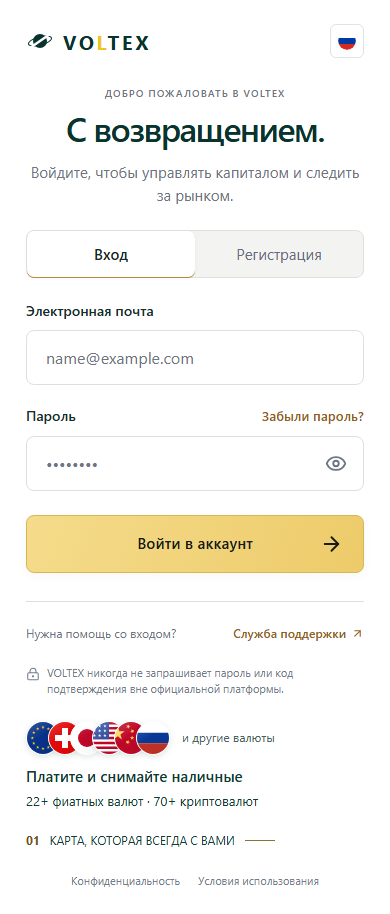
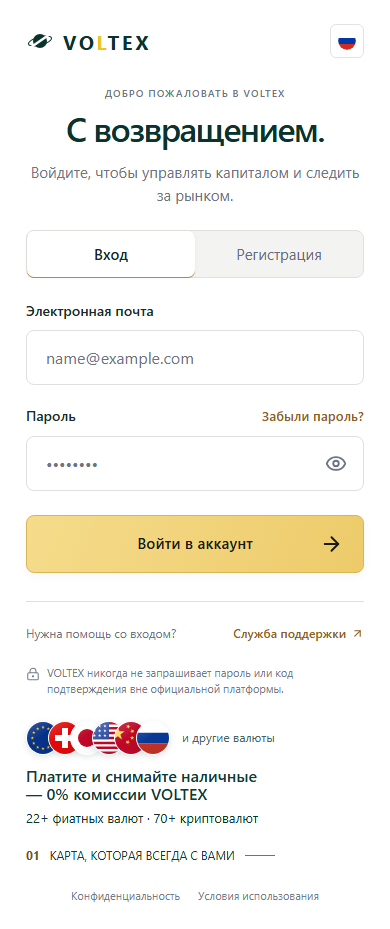
Refine auth card fee copy and lower-block readability

diff --git a/frontend/src/lib/__tests__/authBusinessClassVisual.test.ts b/frontend/src/lib/__tests__/authBusinessClassVisual.test.ts
@@ -19,7 +19,7 @@ function renderShell(lang: string) {
     './auth-shell.css': {}, './auth-form-premium.css': {},
     '../../components/Logo': { Logo: () => React.createElement('span', null, 'HTML_LOGO'), LogoMark: () => null },
     '../../components/LanguageSwitcher': { LanguageSwitcher: () => null },
-    '../../lib/i18n': { useLanguage: () => ({ lang, t: (key: string) => key === 'authShell.communitySubtitle' ? `localized:${lang}:${key}:fiat · localized:${lang}:${key}:crypto` : `localized:${lang}:${key}` }) },
+    '../../lib/i18n': { useLanguage: () => ({ lang, t: (key: string) => key === 'authShell.communitySubtitle' ? `localized:${lang}:${key}:fiat · localized:${lang}:${key}:crypto` : key === 'authShell.communityTitle' ? `localized:${lang}:${key}:action — localized:${lang}:${key}:VOLTEX:0%` : `localized:${lang}:${key}` }) },
     '../../lib/supportWidget': { openSupportWidget: jest.fn() },
     'react-router-dom': { Link: ({ to, children, ...rest }: any) => React.createElement('a', { href: to, ...rest }, children) },
   };
@@ -39,6 +39,8 @@ describe('business-class visual preserves reviewed authentication', () => {
     const preservedShell = shell
       .replace(/^import \{ EU, CH, JP, US, CN, RU \} from 'country-flag-icons\/react\/3x2';\n/m, '')
       .replace("  const [fiatCaption, cryptoCaption] = t('authShell.communitySubtitle').split(' · ');\n", '')
+      .replace("  const [cardAction, voltexFee] = t('authShell.communityTitle').split(' — ');\n", '')
+      .replace('          <strong>{cardAction}{\' \'}<span className="vx-auth-card-fee">— {voltexFee}</span></strong>', "          <strong>{t('authShell.communityTitle')}</strong>")
       .replace("          <span><span className=\"vx-auth-currency-amount\">{fiatCaption} ·</span>{' '}<span className=\"vx-auth-currency-amount\">{cryptoCaption}</span></span>", "          <span>{t('authShell.communitySubtitle')}</span>")
       .replace('/** Decorative currency examples, not the complete list or a user count. */', '/* Decorative icon-only follow-up. */')
       .replace(/        <div className="vx-auth-currency-sample">[\s\S]*?\n        <\/div>(?=\n        <div className="vx-auth-community-copy">)/, '        {/* Decorative icon group. */}');
@@ -110,6 +112,8 @@ describe('business-class visual preserves reviewed authentication', () => {
     expect(new Set(icons.slice(0, 6).map(icon => icon[2])).size).toBe(6);
     expect(html).not.toMatch(/vx-auth-avatar|community-v4/);
     expect(html).toContain(`localized:${lang}:authShell.communityTitle`);
+    expect(html.match(/class="vx-auth-card-fee"/g)).toHaveLength(2);
+    expect(html).toContain(`<strong>localized:${lang}:authShell.communityTitle:action <span class="vx-auth-card-fee">— localized:${lang}:authShell.communityTitle:VOLTEX:0%</span></strong>`);
     expect(html).toContain(`localized:${lang}:authShell.communitySubtitle`);
     expect(html.match(/class="vx-auth-currency-amount"/g)).toHaveLength(4);
     expect(html).toContain(`<span class="vx-auth-currency-amount">localized:${lang}:authShell.communitySubtitle:fiat ·</span> <span class="vx-auth-currency-amount">localized:${lang}:authShell.communitySubtitle:crypto</span>`);
@@ -138,6 +142,15 @@ describe('business-class visual preserves reviewed authentication', () => {
     expect(css).toContain('.vx-auth .vx-auth-brand-banner::after { content: none; }');
     // Actual painted coverage, protected image regions, resize/zoom and compact
     // form access are measured by qa-auth-business-class.cjs, not CSS literals.
+  });
+
+  test('fee typography is scoped, opaque and readable without a badge or smaller type', () => {
+    expect(css).toContain('.vx-auth .vx-auth-card-fee { white-space: nowrap; }');
+    expect(css).toContain('.vx-auth .vx-auth-community-copy strong { color: #123a33; font-size: 17px; font-weight: 600; line-height: 1.15; text-wrap: wrap; }');
+    expect(css).toContain('.vx-auth .vx-auth-community-copy > span { color: #0d332d; font-size: 14px; font-weight: 400; line-height: 1.4; }');
+    expect(css.match(/\.vx-auth \.vx-auth-community-copy strong \{ font-size: 16px; \}/g)).toHaveLength(2);
+    const captionCSS = css.slice(css.indexOf('.vx-auth .vx-auth-extras {'), css.indexOf('/* Light form theme'));
+    expect(captionCSS).not.toMatch(/opacity:|text-overflow:|text-shadow:|backdrop-filter:|animation:/);
   });
 
   test('premium form is native CSS, keeps warning/error/focus/disabled states and adds no images', () => {

diff --git a/frontend/src/lib/__tests__/i18nLanguageChunks.test.ts b/frontend/src/lib/__tests__/i18nLanguageChunks.test.ts
@@ -76,13 +76,13 @@ const AUTH_COMMUNITY_KEYS = ['authShell.communityTitle', 'authShell.communitySub
 describe('translation integrity', () => {
   it('localizes the exact two-line card copy and 22+/70+ fiat/crypto counts without an investor claim', () => {
     const approvedCommunityCopy: Record<string, { title: string; subtitle: string }> = {
-      ru: { title: 'Платите и снимайте наличные', subtitle: '22+ фиатных валют · 70+ криптовалют' },
-      en: { title: 'Pay and withdraw cash', subtitle: '22+ fiat currencies · 70+ cryptocurrencies' },
-      zh: { title: '支付与取现', subtitle: '22+ 种法定货币 · 70+ 种加密货币' },
-      es: { title: 'Paga y retira efectivo', subtitle: '22+ monedas fiduciarias · 70+ criptomonedas' },
-      hi: { title: 'भुगतान करें और नकद निकालें', subtitle: '22+ फ़िएट मुद्राएँ · 70+ क्रिप्टोकरेंसी' },
-      ja: { title: 'お支払いと現金の引き出し', subtitle: '22+ の法定通貨 · 70+種類の暗号資産' },
-      ko: { title: '결제하고 현금을 인출하세요', subtitle: '22+개 법정화폐 · 70+개 암호화폐' },
+      ru: { title: 'Платите и снимайте наличные — 0% комиссии VOLTEX', subtitle: '22+ фиатных валют · 70+ криптовалют' },
+      en: { title: 'Pay and withdraw cash — 0% VOLTEX fees', subtitle: '22+ fiat currencies · 70+ cryptocurrencies' },
+      zh: { title: '支付与取现 — VOLTEX 手续费 0%', subtitle: '22+ 种法定货币 · 70+ 种加密货币' },
+      es: { title: 'Paga y retira efectivo — 0% de comisión VOLTEX', subtitle: '22+ monedas fiduciarias · 70+ criptomonedas' },
+      hi: { title: 'भुगतान करें और नकद निकालें — VOLTEX शुल्क 0%', subtitle: '22+ फ़िएट मुद्राएँ · 70+ क्रिप्टोकरेंसी' },
+      ja: { title: 'お支払いと現金の引き出し — VOLTEX手数料0%', subtitle: '22+ の法定通貨 · 70+種類の暗号資産' },
+      ko: { title: '결제하고 현금을 인출하세요 — VOLTEX 수수료 0%', subtitle: '22+개 법정화폐 · 70+개 암호화폐' },
     };
     for (const code of LOCALES) {
       const sourceKeys = [...readLocale(code).matchAll(/^\s*'([^']+)':/gm)].map(match => match[1]);
@@ -92,14 +92,19 @@ describe('translation integrity', () => {
         expect(dicts[code][key]).not.toMatch(/1[.,]2|million|миллион|млн|万|백만|लाख|18\+|30\+/i);
         expect(dicts[code][key]).not.toMatch(/[.!?。！？।]$/);
       }
-      expect(dicts[code]['authShell.communityTitle']).not.toMatch(/\d/);
+      const feeParts = dicts[code]['authShell.communityTitle'].split(' — ');
+      expect(feeParts).toHaveLength(2);
+      expect(feeParts[0]).not.toMatch(/\d/);
+      expect(feeParts[1]).toContain('VOLTEX');
+      expect(feeParts[1]).toContain('0%');
+      expect(dicts[code]['authShell.communityTitle'].match(/\d+%/g)).toEqual(['0%']);
       expect(dicts[code]['authShell.communityTitle']).toBe(approvedCommunityCopy[code].title);
       expect(dicts[code]['authShell.communitySubtitle']).toBe(approvedCommunityCopy[code].subtitle);
       expect(dicts[code]['authShell.communitySubtitle'].match(/\d+\+?/g)).toEqual(['22+', '70+']);
       expect(dicts[code]['authShell.communitySubtitle']).toContain(' · ');
     }
     for (const key of AUTH_COMMUNITY_KEYS) expect(new Set(LOCALES.map(code => dicts[code][key])).size).toBe(LOCALES.length);
-    expect(dicts.ru['authShell.communityTitle']).toBe('Платите и снимайте наличные');
+    expect(dicts.ru['authShell.communityTitle']).toBe('Платите и снимайте наличные — 0% комиссии VOLTEX');
     expect(dicts.ru['authShell.communitySubtitle']).toBe('22+ фиатных валют · 70+ криптовалют');
   });
   it('clarifies that the displayed currency flags are a partial selection in all seven languages', () => {

diff --git a/frontend/src/pages/auth-shell/auth-shell.css b/frontend/src/pages/auth-shell/auth-shell.css
@@ -137,7 +137,7 @@
 .vx-auth .vx-auth-extras {
   display: flex;
   flex-direction: column;
-  gap: 22px;
+  gap: 20px;
   color: #123a33;
 }
 .vx-auth-brand > .vx-auth-extras {
@@ -170,9 +170,11 @@
 .vx-auth .vx-auth-currency svg { display: block; width: auto; height: 100%; max-width: none; filter: saturate(.85); }
 .vx-auth .vx-auth-currency::after { content: ''; position: absolute; inset: 0; border-radius: inherit; pointer-events: none; background: linear-gradient(145deg, #ffffff30, #ffffff00 45%, #123a330c); }
 .vx-auth .vx-auth-currency-more { color: #47635d; font-size: 12px; font-weight: 400; line-height: 1.3; }
-.vx-auth .vx-auth-community-copy { display: flex; flex-direction: column; gap: 6px; min-width: 0; }
-.vx-auth .vx-auth-community-copy strong { font-size: 16px; font-weight: 600; line-height: 1.25; }
-.vx-auth .vx-auth-community-copy > span { font-size: 14px; font-weight: 400; line-height: 1.4; }
+.vx-auth .vx-auth-community-copy { display: flex; flex-direction: column; gap: 5px; min-width: 0; }
+.vx-auth-brand-banner .vx-auth-community-copy { padding-right: 40px; }
+.vx-auth .vx-auth-community-copy strong { color: #123a33; font-size: 17px; font-weight: 600; line-height: 1.15; text-wrap: wrap; }
+.vx-auth .vx-auth-community-copy > span { color: #0d332d; font-size: 14px; font-weight: 400; line-height: 1.4; }
+.vx-auth .vx-auth-card-fee { white-space: nowrap; }
 .vx-auth .vx-auth-currency-amount { display: inline-block; white-space: nowrap; }
 .vx-auth .vx-auth-card-caption { display: flex; align-items: center; gap: 10px; font-size: clamp(10px, 1.4svh, 12px); line-height: 1.4; }
 .vx-auth .vx-auth-card-number { font-weight: 650; color: #70541f; }
@@ -191,7 +193,7 @@
   .vx-auth .vx-auth-community { gap: 12px; }
   .vx-auth .vx-auth-currency { width: 34px; height: 34px; }
   .vx-auth .vx-auth-currency + .vx-auth-currency { margin-left: -16px; }
-  .vx-auth .vx-auth-community-copy strong { font-size: 15px; }
+  .vx-auth .vx-auth-community-copy strong { font-size: 16px; }
   .vx-auth .vx-auth-community-copy > span { font-size: 13px; }
 }
 @media (max-width: 760px) {
@@ -201,7 +203,7 @@
   .vx-auth .vx-auth-currency { width: 34px; height: 34px; }
   .vx-auth .vx-auth-currency + .vx-auth-currency { margin-left: -12px; }
   .vx-auth .vx-auth-community-copy { text-wrap: balance; }
-  .vx-auth .vx-auth-community-copy strong { font-size: 15px; }
+  .vx-auth .vx-auth-community-copy strong { font-size: 16px; }
   .vx-auth .vx-auth-community-copy > span { font-size: 13px; text-wrap: wrap; }
 }
 

diff --git a/frontend/src/pages/auth-shell/AuthShell.tsx b/frontend/src/pages/auth-shell/AuthShell.tsx
@@ -13,6 +13,7 @@ import './auth-form-premium.css';
 function AuthCommunity() {
   const { t } = useLanguage();
   const [fiatCaption, cryptoCaption] = t('authShell.communitySubtitle').split(' · ');
+  const [cardAction, voltexFee] = t('authShell.communityTitle').split(' — ');
   return (
     <div className="vx-auth-extras">
       <div className="vx-auth-community">
@@ -40,7 +41,7 @@ function AuthCommunity() {
           <span className="vx-auth-currency-more">{t('authShell.moreCurrencies')}</span>
         </div>
         <div className="vx-auth-community-copy">
-          <strong>{t('authShell.communityTitle')}</strong>
+          <strong>{cardAction}{' '}<span className="vx-auth-card-fee">— {voltexFee}</span></strong>
           <span><span className="vx-auth-currency-amount">{fiatCaption} ·</span>{' '}<span className="vx-auth-currency-amount">{cryptoCaption}</span></span>
         </div>
       </div>

diff --git a/frontend/src/lib/i18n/locales/hi.ts b/frontend/src/lib/i18n/locales/hi.ts
@@ -176,7 +176,7 @@ export const HI: Record<Key, string> = {
   'authShell.communityCount': '12 लाख से अधिक निवेशक',
   'authShell.communityText': 'पहले से ही VOLTEX के साथ बाज़ार पर नज़र रख रहे हैं',
   'authShell.communityBadge': '12 लाख+',
-  'authShell.communityTitle': 'भुगतान करें और नकद निकालें',
+  'authShell.communityTitle': 'भुगतान करें और नकद निकालें — VOLTEX शुल्क 0%',
   'authShell.communitySubtitle': '22+ फ़िएट मुद्राएँ · 70+ क्रिप्टोकरेंसी',
   'authShell.moreCurrencies': 'और अन्य मुद्राएँ',
   'authShell.cardCaption': 'हमेशा आपके साथ रहने वाला कार्ड',

diff --git a/frontend/src/lib/i18n/locales/ru.ts b/frontend/src/lib/i18n/locales/ru.ts
@@ -180,7 +180,7 @@ export const RU = {
   'authShell.communityCount': '1,2+ млн инвесторов',
   'authShell.communityText': 'уже следят за рынком вместе с VOLTEX',
   'authShell.communityBadge': '1,2M+',
-  'authShell.communityTitle': 'Платите и снимайте наличные',
+  'authShell.communityTitle': 'Платите и снимайте наличные — 0% комиссии VOLTEX',
   'authShell.communitySubtitle': '22+ фиатных валют · 70+ криптовалют',
   'authShell.moreCurrencies': 'и другие валюты',
   'authShell.cardCaption': 'КАРТА, КОТОРАЯ ВСЕГДА С ВАМИ',

diff --git a/frontend/src/lib/i18n/locales/ja.ts b/frontend/src/lib/i18n/locales/ja.ts
@@ -176,7 +176,7 @@ export const JA: Record<Key, string> = {
   'authShell.communityCount': '120万人以上の投資家が',
   'authShell.communityText': 'すでに VOLTEX で市場をチェックしています',
   'authShell.communityBadge': '120万+',
-  'authShell.communityTitle': 'お支払いと現金の引き出し',
+  'authShell.communityTitle': 'お支払いと現金の引き出し — VOLTEX手数料0%',
   'authShell.communitySubtitle': '22+ の法定通貨 · 70+種類の暗号資産',
   'authShell.moreCurrencies': 'その他の通貨にも対応',
   'authShell.cardCaption': 'いつもあなたとともにあるカード',

diff --git a/frontend/src/lib/i18n/locales/ko.ts b/frontend/src/lib/i18n/locales/ko.ts
@@ -176,7 +176,7 @@ export const KO: Record<Key, string> = {
   'authShell.communityCount': '120만 명 이상의 투자자가',
   'authShell.communityText': '이미 VOLTEX와 함께 시장을 살펴보고 있습니다',
   'authShell.communityBadge': '120만+',
-  'authShell.communityTitle': '결제하고 현금을 인출하세요',
+  'authShell.communityTitle': '결제하고 현금을 인출하세요 — VOLTEX 수수료 0%',
   'authShell.communitySubtitle': '22+개 법정화폐 · 70+개 암호화폐',
   'authShell.moreCurrencies': '그 외 다양한 통화',
   'authShell.cardCaption': '언제나 함께하는 카드',

diff --git a/frontend/src/lib/i18n/locales/es.ts b/frontend/src/lib/i18n/locales/es.ts
@@ -176,7 +176,7 @@ export const ES: Record<Key, string> = {
   'authShell.communityCount': 'Más de 1,2 millones de inversores',
   'authShell.communityText': 'ya siguen el mercado con VOLTEX',
   'authShell.communityBadge': '1,2M+',
-  'authShell.communityTitle': 'Paga y retira efectivo',
+  'authShell.communityTitle': 'Paga y retira efectivo — 0% de comisión VOLTEX',
   'authShell.communitySubtitle': '22+ monedas fiduciarias · 70+ criptomonedas',
   'authShell.moreCurrencies': 'y otras monedas',
   'authShell.cardCaption': 'LA TARJETA QUE SIEMPRE VA CONTIGO',

diff --git a/frontend/src/lib/i18n/locales/en.ts b/frontend/src/lib/i18n/locales/en.ts
@@ -177,7 +177,7 @@ export const EN: Record<Key, string> = {
   'authShell.communityCount': '1.2M+ investors',
   'authShell.communityText': 'already follow the market with VOLTEX',
   'authShell.communityBadge': '1.2M+',
-  'authShell.communityTitle': 'Pay and withdraw cash',
+  'authShell.communityTitle': 'Pay and withdraw cash — 0% VOLTEX fees',
   'authShell.communitySubtitle': '22+ fiat currencies · 70+ cryptocurrencies',
   'authShell.moreCurrencies': 'and more currencies',
   'authShell.cardCaption': 'THE CARD THAT GOES WITH YOU',

diff --git a/frontend/src/lib/i18n/locales/zh.ts b/frontend/src/lib/i18n/locales/zh.ts
@@ -177,7 +177,7 @@ export const ZH: Record<Key, string> = {
   'authShell.communityCount': '超过120万名投资者',
   'authShell.communityText': '已在与 VOLTEX 一起关注市场',
   'authShell.communityBadge': '120万+',
-  'authShell.communityTitle': '支付与取现',
+  'authShell.communityTitle': '支付与取现 — VOLTEX 手续费 0%',
   'authShell.communitySubtitle': '22+ 种法定货币 · 70+ 种加密货币',
   'authShell.moreCurrencies': '及更多货币',
   'authShell.cardCaption': '始终伴您左右的卡',

diff --git a/docs/qa/auth-business-class/README.md b/docs/qa/auth-business-class/README.md
@@ -1,10 +1,10 @@
 # Login / Register — selected banner and real form
 
-Follow-up branch `codex/auth-fiat-flags-copy` from main
-`8cbb74becc694ef29b90691d3f472390f2a1a413`, after #466 was merged externally.
-The owner initially authorized a review-only narrow PR, then explicitly approved
-publication after reviewing the complete design and requesting a saturated
-registration button. Final exact-head checks remain required before merge.
+Current narrow follow-up: `codex/auth-card-fee-copy`, from fresh main
+`2f195cbe2f0f1c7ee31e2c9e887f7449a18cf34b` after #472 was published.
+This revision changes only the lower information block's localized fee wording
+and readability. The owner explicitly prohibits merge, deployment and production
+changes for this follow-up. The earlier publication approval does not apply here.
 
 Russian Login and Register now use only the left 919 x 941 crop of the approved
 `voltex-premium-gold-button-v6.png`. This supersedes the earlier real-photo/RU
@@ -19,7 +19,7 @@ unframed, with no shared panel, border, blur, raised shadow, numeric badge,
 carousel or testimonial claim.
 No verified evidence for the previous 1.2 million investor figure was found;
 old copy and comments are not evidence. The owner replaced the neutral community
-copy with the two lines “Платите и снимайте наличные” and
+copy with “Платите и снимайте наличные — 0% комиссии VOLTEX” and
 “22+ фиатных валют · 70+ криптовалют”. All seven locales retain the exact 22+/70+ product
 figures, supplied by the owner rather than independently verified coverage.
 See `frontend/public/auth/README.md` for image hashes.
@@ -70,7 +70,7 @@ semantics. The localized hint explicitly identifies the flags as a partial
 selection. Existing card copy, exact 22+/70+ product figures, transparent
 unframed wrappers, and no protected-region or form/support/legal overlap are
 also checked. The prior behavior and geometry checks remain.
-Local result: 38 main cases + 12 resize/zoom-reflow cases + two high-DPI detail
+Local result: 38 main cases + 12 resize/zoom-reflow cases + four high-DPI detail
 captures PASS, CLS 0 on initial
 loads; no horizontal overflow, clipped content, failed images, unexpected
 console/runtime errors, external traffic or forwarded writes. Password reveal,
@@ -86,24 +86,35 @@ uploads a SHA-named report/screenshots artifact. The independent full frontend
 regression workflow remains enabled and unmodified. Existing callback tests
 still cover login, 2FA, session, safe redirect, registration, referral and error
 handling; source fingerprints prove the functional form files are unchanged.
-The lower block uses a 6px text-row gap and a 22px gap before the unchanged
+The lower block uses a 5px text-row gap and a 20px gap before the unchanged
 static card caption. Wide desktops use 36px circles with 14px overlap, a 14px
-flag/copy gap and 16/14px title/subtitle type. The hint sits below the flags;
+flag/copy gap and 17/14px title/subtitle type. The hint sits below the flags;
 the title/subtitle is vertically centered beside this group. Compact desktops
 (width <=1399px or height <=820px, while the banner slot is available) use
-34px circles, 16px overlap, a 12px gap and 15/13px title/subtitle type. At
+34px circles, 16px overlap, a 12px gap and 16/13px title/subtitle type. At
 width <=760px, 34px flags with 12px overlap and the hint share a horizontal
-row, with the 15/13px title/subtitle below. The longer non-Russian copy has
+row, with the 16/13px title/subtitle below. The longer non-Russian copy has
 up to 540px of available lower-caption width without changing photo or form
 geometry. Only the lower block is restyled.
 High-DPI browser crops: [Login](login-block-2x.png) / [Register](register-block-2x.png).
+Mobile high-DPI crops: [Login](login-mobile-block-2x.png) / [Register](register-mobile-block-2x.png).
+The title is one CSS pixel larger than the published version, weight 600;
+the subtitle uses a slightly deeper dark green. All text ancestors have computed
+opacity 1. Commission wording remains an atomic phrase (not a badge), attributed
+explicitly to VOLTEX in all seven locales; it makes no claim about third-party
+bank/ATM charges. Existing tariffs and card conditions are unchanged.
+Only necessary internal text spacing changes: 40px right inset on the Russian
+photo text, compact title line-height 1.15 and natural, non-balanced wrapping.
+These keep the longer heading between both protected cards at 1366x768.
+Photo overlap checks now measure every actual text-node rectangle and flag,
+rather than empty flex-box area. All protected source regions remain enforced.
 At <=760px viewport height the lower block alone uses its existing post-form
 slot to avoid covering the cards under zoom; the photo and form keep their
 geometry. This also accommodates wider platform font metrics without
 overlapping the black card at a 700px window height.
 Preservation locks also cover the shell markup outside the currency presentation, all CSS outside these captions,
 and the unchanged soft bottom gradient. No global number replacement is used.
-Local TypeScript/build and 177 targeted tests passed. Fresh remote exact-head
+Local TypeScript/build and focused preservation/localization/auth tests passed. Fresh remote exact-head
 CI is still required for this follow-up; earlier PR/head results are not
 evidence for this revision.
 No checks are waived or disabled.
@@ -118,7 +129,8 @@ Photo assets, form geometry and the existing bottom scrim are unchanged.
 
 ## Publication boundary
 
-The owner has authorized merge and frontend publication of PR #472. Russian
+PR #472 was published under its earlier authorization. This follow-up is
+review-only: **NO MERGE, NO DEPLOY**, no production writes. Russian
 artwork provenance and the retained non-Russian photograph's licensing notes
 are recorded in `frontend/public/auth/README.md`. No backend, Worker, database
 or infrastructure deployment is part of this change.
